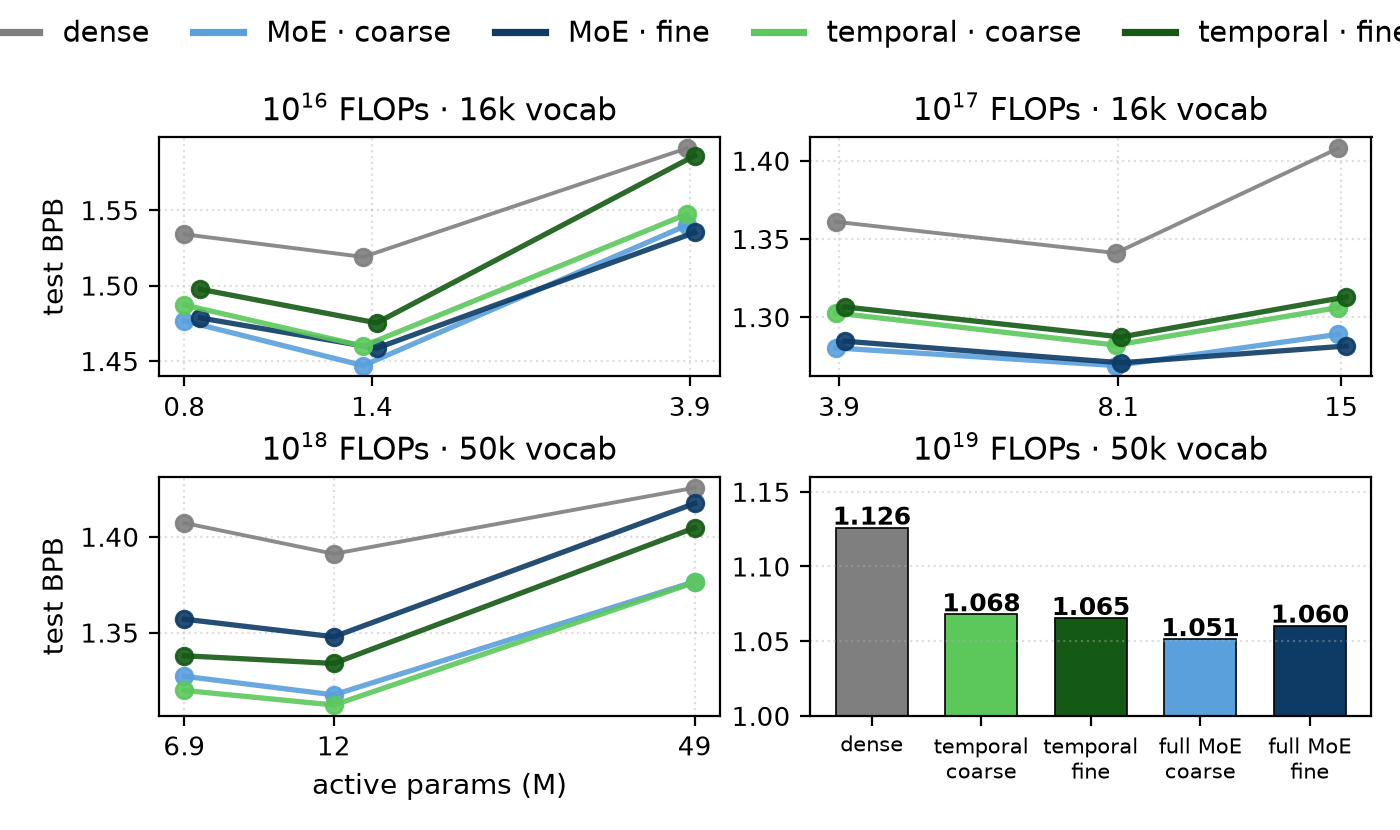
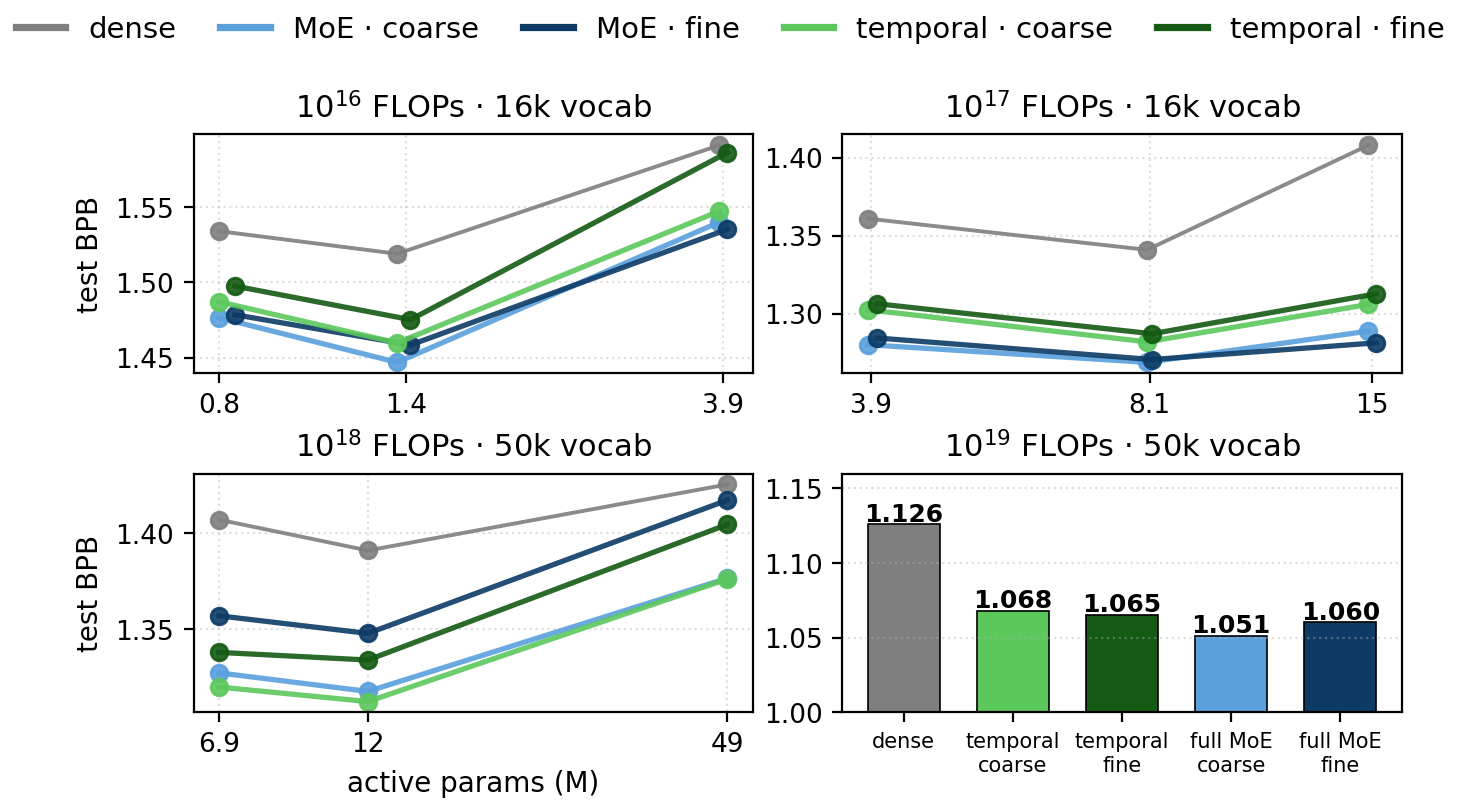
isoFLOP paper grid saved with a tight bbox (legend was clipped); paper bumped

Changed region(s): [[0.0307, 0.0936, 0.9829, 0.9988], [0.0, 0.0, 1.0, 0.0624], [0.8293, 0.2497, 0.86, 0.2809]]

diff --git a/analysis/plots/plot_isoflop_panels.py b/analysis/plots/plot_isoflop_panels.py
@@ -171,7 +171,8 @@ fig.legend([Line2D([0], [0], color=c, lw=2.6) for _, c, _ in STYLE], LEG,
 fig.tight_layout(rect=[0, 0, 1, 0.925])
 fig.subplots_adjust(wspace=0.16, hspace=0.42)
 out = f"{OUTD}/isoflop_panels_2x2_nocaption.png"
-fig.savefig(out, dpi=200); print("wrote", out); plt.close(fig)
+# tight bbox: the shared legend sits above the axes and was clipped at the right edge otherwise
+fig.savefig(out, dpi=200, bbox_inches="tight", pad_inches=0.02); print("wrote", out); plt.close(fig)
 
 # captioned 2x2 overview for the repo
 fig, axes = plt.subplots(2, 2, figsize=(9.4, 7.6))
